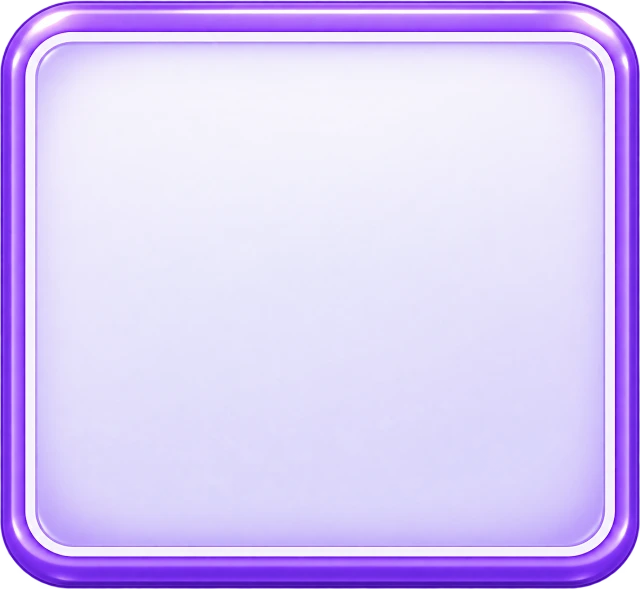
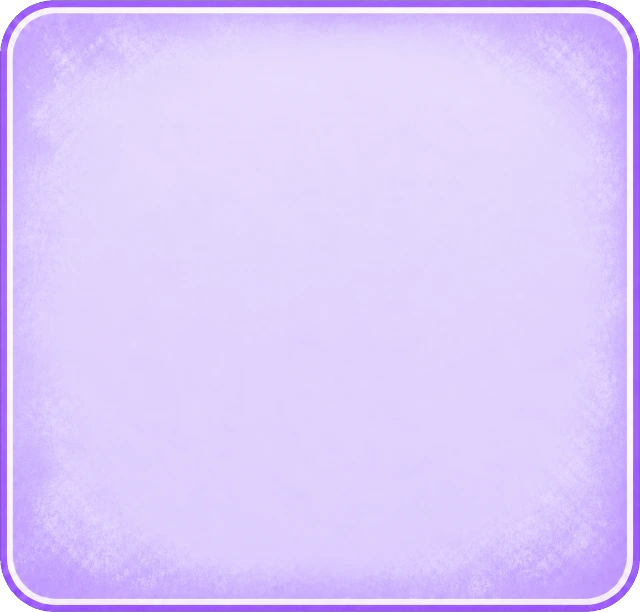
The frosted card kit for options, zones and bins; unused art and the foreign skin removed
Every card the child touches or sorts into is now cut from the supplied
frosted-card kit: the option card is its first cell (snow on the corners,
crystals at the foot), the convex and concave bins are its aqua and lilac
cards, and the regular and irregular zones are reg.png and irre.png. The
card tool can cut one cell of a sheet before keying and measuring. The
soft cards' rims are in their own colour, so the pane detector read the
whole card as glass; their panes are set by hand with room off the rim.

Cleanup, as asked: the superseded source art (CARD, BIGCARD, buttons,
newbuttons, regular, irregular, NEWCARD, NEWCARD1, buttonskit,
numberbutton) is deleted, as is the unwired measuring-ui skin with its
tests, docs and previews, and the two package scripts that pointed at
them. The measuring test now loads the measuring frames it needs.

diff --git a/tools/build-card.js b/tools/build-card.js
@@ -6,11 +6,11 @@
  *
  * Four cards, three jobs:
  *
- *   OPTION  assets/ui/CARD.png     the block of ice something you can TOUCH
+ *   OPTION  assets/ui/cardskit.png (cell 0)  the block of ice something you can TOUCH
  *                                  sits in — the sorting tray, the swipe
  *                                  card, the icons stacked in a bin, the four
  *                                  in the choose-the-polygons grid.
- *   PANEL   assets/ui/BIGCARD.png  the slab a single shape is DISPLAYED on,
+ *   PANEL   assets/ui/bigcardn.png  the slab a single shape is DISPLAYED on,
  *                                  where there is nothing to tap or drag.
  *
  * Which card a thing gets is the affordance. A child should be able to tell
@@ -48,7 +48,14 @@ const ROOT = path.join(__dirname, '..');
 const OUT_JS = path.join(ROOT, 'src/game/card-frame.js');
 
 const CARDS = [
-  { key: 'option',    src: 'assets/ui/CARD.png',      out: 'assets/ui/card.webp',      cap: 512 },
+  // The option card is the first cell of the frosted-card kit: a soft ice
+  // card with snow on its corners. `cell` crops one of a sheet's cells
+  // before the usual keying and measuring.
+  { key: 'option',    src: 'assets/ui/cardskit.png',  cell: { cols: 3, rows: 2, i: 0 }, out: 'assets/ui/card.webp', cap: 512 },
+  // The convex / concave bins on the sorting screen: aqua and lilac from
+  // the same kit, so the two halves of the answer are two cards.
+  { key: 'convexBin',  src: 'assets/ui/cardskit.png', cell: { cols: 3, rows: 2, i: 3 }, out: 'assets/ui/bin-convex.webp',  cap: 640 },
+  { key: 'concaveBin', src: 'assets/ui/cardskit.png', cell: { cols: 3, rows: 2, i: 5 }, out: 'assets/ui/bin-concave.webp', cap: 640 },
   { key: 'panel',     src: 'assets/ui/bigcardn.png', out: 'assets/ui/bigcard.webp',   cap: 1024 },
   // The two drop zones of the swipe practice. Their titles are drawn INTO the
   // artwork, so the game must not print a label over them — and the pane each
@@ -59,9 +66,9 @@ const CARDS = [
   { key: 'plank',     src: 'assets/ui/pannel.png',   out: 'assets/ui/plank.webp',           cap: 1400 },
   // The zone frames are blank glass now — a cyan rim for regular, a violet
   // one for irregular — and stage.js letters the word on them. The earlier
-  // regular.png / irregular.png carried their own title plates.
-  { key: 'regular',   src: 'assets/ui/NEWCARD.png',  out: 'assets/ui/zone-regular.webp',   cap: 640 },
-  { key: 'irregular', src: 'assets/ui/NEWCARD1.png', out: 'assets/ui/zone-irregular.webp', cap: 640 }
+  // the earlier zone art carried its own title plates.
+  { key: 'regular',   src: 'assets/ui/reg.png',  out: 'assets/ui/zone-regular.webp',   cap: 640 },
+  { key: 'irregular', src: 'assets/ui/irre.png', out: 'assets/ui/zone-irregular.webp', cap: 640 }
 ];
 
 function serve() {
@@ -78,15 +85,23 @@ function serve() {
 }
 
 const MEASURE = function (opts) {
-  const url = opts.url, cap = opts.cap;
+  const url = opts.url, cap = opts.cap, cell = opts.cell;
   return new Promise(function (resolve, reject) {
     const img = new Image();
     img.onerror = reject;
     img.onload = function () {
       const c = document.createElement('canvas');
-      c.width = img.width; c.height = img.height;
       const x = c.getContext('2d');
-      x.drawImage(img, 0, 0);
+      if (cell) {
+        // one cell of a sheet, cut on the grid; the rest of the pipeline
+        // sees it as if it were the whole file
+        const cw = Math.floor(img.width / cell.cols), ch = Math.floor(img.height / cell.rows);
+        c.width = cw; c.height = ch;
+        x.drawImage(img, (cell.i % cell.cols) * cw, Math.floor(cell.i / cell.cols) * ch, cw, ch, 0, 0, cw, ch);
+      } else {
+        c.width = img.width; c.height = img.height;
+        x.drawImage(img, 0, 0);
+      }
       const d = x.getImageData(0, 0, c.width, c.height).data;
       const at = function (px, py) {
         const i = (py * c.width + px) * 4;
@@ -94,7 +109,7 @@ const MEASURE = function (opts) {
       };
 
       /* 0. THE BLACK MATTE.
-            BIGCARD.png was exported onto an opaque black background rather
+            The slab was exported onto an opaque black background rather
             than onto transparency — every one of its border pixels is
             rgba(0,0,0,255) — so drawn as-is the display slab arrives inside a
             hard black rectangle. It is keyed out by flooding IN from the four
@@ -207,7 +222,7 @@ const MEASURE = function (opts) {
 
   const frames = {};
   for (const card of CARDS) {
-    const m = await page.evaluate(MEASURE, { url: `http://127.0.0.1:${port}/${card.src}`, cap: card.cap });
+    const m = await page.evaluate(MEASURE, { url: `http://127.0.0.1:${port}/${card.src}`, cap: card.cap, cell: card.cell || null });
     const bytes = Buffer.from(m.webp.split(',')[1], 'base64');
     fs.writeFileSync(path.join(ROOT, card.out), bytes);
     const before = fs.statSync(path.join(ROOT, card.src)).size;

diff --git a/src/game/stage.js b/src/game/stage.js
@@ -1156,13 +1156,24 @@
         var g = mk('g', { 'class': 'bin', 'data-bin': b.id }, layers.ui);
         var c = CONCEPT[b.tone] || CONCEPT.convex;
         var tone = [c.wash, c.face, c.ink];
-        // A LIGHT CARD WITH A TITLE BAND, in the concept's colour — the same
-        // grammar as the stepper bar and the checklist. It was a dashed box
-        // with a dark pill riding its top edge, which is a dashboard widget.
-        mk('rect', { x: x, y: y, width: bw, height: bh, rx: UI.radius, fill: tone[0], stroke: tone[1], 'stroke-width': UI.rim }, g);
-        mk('rect', { x: x + 12, y: y + 10, width: bw - 24, height: 40, rx: 12, fill: tone[1], opacity: .28 }, g);
-        mk('text', { x: x + bw / 2, y: y + 38, 'text-anchor': 'middle', 'font-size': UI.title, 'font-weight': 800, fill: c.ink, text: b.label }, g);
+        // THE BIN IS A CARD FROM THE KIT — aqua for convex, lilac for
+        // concave — with the word lettered on a band of the concept's colour
+        // inside the top of its glass. The drawn card remains as the fallback.
+        var BF = global.CardFrame && CardFrame[b.tone + 'Bin'];
+        var pane = { x: x + 12, y: y + 10, w: bw - 24, h: bh - 20 };
+        if (BF) {
+          var im = mk('image', { x: x, y: y, width: bw, height: bh, preserveAspectRatio: 'none', 'pointer-events': 'none' }, g);
+          im.setAttributeNS('http://www.w3.org/1999/xlink', 'href', BF.src);
+          im.setAttribute('href', BF.src);
+          if (BF.pane) pane = { x: x + bw * BF.pane.x, y: y + bh * BF.pane.y, w: bw * BF.pane.w, h: bh * BF.pane.h };
+        } else {
+          mk('rect', { x: x, y: y, width: bw, height: bh, rx: UI.radius, fill: tone[0], stroke: tone[1], 'stroke-width': UI.rim }, g);
+        }
+        mk('rect', { x: pane.x + 10, y: pane.y + 8, width: pane.w - 20, height: 40, rx: 12, fill: tone[1], opacity: .30 }, g);
+        mk('text', { x: x + bw / 2, y: pane.y + 36, 'text-anchor': 'middle', 'font-size': UI.title, 'font-weight': 800, fill: c.ink, text: b.label }, g);
         g._bin = b; g._rect = { x: x, y: y, w: bw, h: bh }; g._count = 0;
+        // the shelf: the glass below the title band
+        g._pane = { x: pane.x, y: pane.y + 52, w: pane.w, h: pane.h - 56 };
         st.sort.bins.push(g);
         if (spec.enter && !reduced()) enter(g, 'rise');
       });
@@ -1350,8 +1361,8 @@
   function packBin(bin) {
     var items = bin._items || [];
     if (!items.length) return;
-    var r = bin._rect;
-    var PAD_X = 12, PAD_TOP = 56, PAD_BOT = 12;   // the title band eats the top
+    var r = bin._pane || bin._rect;
+    var PAD_X = bin._pane ? 6 : 12, PAD_TOP = bin._pane ? 6 : 56, PAD_BOT = bin._pane ? 6 : 12;   // a pane already excludes the title band
     var cols = Math.min(3, Math.max(1, Math.ceil(Math.sqrt(items.length))));
     var rows = Math.ceil(items.length / cols);
     var cw = (r.w - PAD_X * 2) / cols;
@@ -1632,7 +1643,7 @@
   /**
    * A button.
    *
-   * THE ARTWORK, IN THREE PIECES. assets/ui/buttons.png is a sheet of
+   * THE ARTWORK, IN THREE PIECES. assets/ui/buttonkit1.png is a sheet of
    * finished buttons; tools/build-buttons.js cuts the four this lesson needs
    * out of it and measures where each round end finishes.
    *

diff --git a/src/game/card-frame.js b/src/game/card-frame.js
@@ -7,8 +7,6 @@
  *   panel   the slab a single shape is DISPLAYED on, with nothing to do
  *
  * `pane` is the clear area inside the rim, as a fraction of the card, so a
- * (panel.pane.h is hand-set to 0.85 after every rebuild: the detector stops at
- * the inner highlight, a tenth short of the glass; keep it.)
  * shape can be placed in it at any size the card is drawn at. Measured from
  * the artwork rather than eyeballed, because the rim is not the same
  * thickness on every edge and a shape centred on the card is not centred in
@@ -19,14 +17,21 @@
   var F = {
     "option": {
       "src": "assets/ui/card.webp",
-      "w": 512,
-      "h": 472,
-      "pane": {
-        "x": 0.0697,
-        "y": 0.0929,
-        "w": 0.858,
-        "h": 0.827
-      }
+      "w": 469,
+      "h": 445,
+      "pane": { "x": 0.09, "y": 0.13, "w": 0.82, "h": 0.78 }
+    },
+    "convexBin": {
+      "src": "assets/ui/bin-convex.webp",
+      "w": 470,
+      "h": 442,
+      "pane": { "x": 0.05, "y": 0.06, "w": 0.9, "h": 0.89 }
+    },
+    "concaveBin": {
+      "src": "assets/ui/bin-concave.webp",
+      "w": 468,
+      "h": 442,
+      "pane": { "x": 0.05, "y": 0.06, "w": 0.9, "h": 0.89 }
     },
     "panel": {
       "src": "assets/ui/bigcard.webp",
@@ -53,24 +58,14 @@
     "regular": {
       "src": "assets/ui/zone-regular.webp",
       "w": 640,
-      "h": 599,
-      "pane": {
-        "x": 0.0309,
-        "y": 0.0642,
-        "w": 0.9391,
-        "h": 0.8515
-      }
+      "h": 611,
+      "pane": { "x": 0.06, "y": 0.06, "w": 0.88, "h": 0.88 }
     },
     "irregular": {
       "src": "assets/ui/zone-irregular.webp",
       "w": 640,
-      "h": 589,
-      "pane": {
-        "x": 0.0588,
-        "y": 0.0764,
-        "w": 0.8825,
-        "h": 0.8282
-      }
+      "h": 612,
+      "pane": { "x": 0.06, "y": 0.06, "w": 0.88, "h": 0.88 }
     }
   };
   global.CardFrame = F;

diff --git a/tools/build-measuring.js b/tools/build-measuring.js
@@ -4,6 +4,7 @@
 const fs = require('node:fs');
 const path = require('node:path');
 const { chromium } = require('playwright');
+const { execFileSync } = require('node:child_process');
 const root = path.join(__dirname, '..');
 (async () => {
   const browser = await chromium.launch({ channel: 'chrome', headless: true });
@@ -57,6 +58,10 @@ const root = path.join(__dirname, '..');
       fps: 14, order: [0, 1, 2, 3, 4, 5, 6, 7, 6, 5, 4, 3, 2, 1], bounds: result.bounds };
     fs.writeFileSync(path.join(root, 'assets/swiftee/swiftee-measuring.json'), JSON.stringify(spec, null, 2) + '\n');
     fs.writeFileSync(path.join(root, 'src/character/measuring-frames.js'), '// Generated by tools/build-measuring.js\n(function(g){g.MeasuringFrames=' + JSON.stringify(spec) + ';})(typeof window!=="undefined"?window:globalThis);\n');
+    fs.mkdirSync(path.join(root, 'previews'), { recursive: true });
+    const frame = 'if(lt(mod(n,14),8),mod(n,14),14-mod(n,14))';
+    const filter = "crop=256:256:'mod(" + frame + ",4)*256':'floor(" + frame + "/4)*256',split[a][b];[a]palettegen=reserve_transparent=1[p];[b][p]paletteuse=alpha_threshold=128";
+    execFileSync('ffmpeg', ['-y', '-v', 'error', '-loop', '1', '-framerate', '14', '-t', '1', '-i', path.join(root, spec.image), '-filter_complex', filter, '-loop', '0', path.join(root, 'previews/measuring-loop.gif')], { windowsHide: true, timeout: 20000 });
     console.log('Packed 8 transparent, baseline-aligned frames into assets/swiftee/swiftee-measuring.png');
   } finally { await browser.close(); }
 })().catch(e => { console.error(e); process.exitCode = 1; });

diff --git a/tests/measuring.test.js b/tests/measuring.test.js
@@ -10,7 +10,7 @@ w.requestAnimationFrame = fn => { callbacks.set(++id, fn); return id; };
 w.cancelAnimationFrame = key => callbacks.delete(key);
 w.Swiftee = { el: w.document.querySelector('#bird') };
 w.Juice = { reducedMotion: false };
-for (const file of ['src/core/polygon-math.js', 'src/fx/snowflake.js', 'src/character/swiftee-frames.js', 'src/game/stage.js']) {
+for (const file of ['src/core/polygon-math.js', 'src/fx/snowflake.js', 'src/character/swiftee-frames.js', 'src/character/measuring-frames.js', 'src/game/stage.js']) {
   w.eval(fs.readFileSync(path.join(__dirname, '..', file), 'utf8'));
 }
 w.Stage.mount(w.document.querySelector('#stage'));
@@ -29,7 +29,7 @@ function prepare() {
   tap(0); tap(0); tap(1); tap(2); tap(3); tap(4);
   assert.equal(w.Stage.state.measure.sides.length, 0);
   assert.equal(w.document.querySelectorAll('.swiftee-measuring').length, 1);
-  for (let i = 0; i < 5; i++) { tick(16); tick(2000); }
+  for (let i = 0; i < 5; i++) { tick(16); tick(3000); }
   await complete;
   assert.equal(w.Stage.state.measure.sides.length, 5);
   assert.equal(w.document.querySelectorAll('.swiftee-measuring').length, 0);

diff --git a/index.html b/index.html
@@ -584,10 +584,10 @@
 <script src="src/character/sleigh-frames.js"></script>
 <script src="src/fx/sleigh-intro.js"></script>
 <script src="src/character/swiftee.js"></script>
-<!-- generated from assets/ui/CARD.png by tools/build-card.js -->
+<!-- generated from assets/ui/cardskit.png, bigcardn.png, pannel.png, reg.png and irre.png by tools/build-card.js -->
 <script src="src/game/card-frame.js"></script>
 <script src="src/game/instruction.js"></script>
-<!-- generated from assets/ui/buttons.png by tools/build-buttons.js -->
+<!-- generated from assets/ui/buttonkit1.png and numberbutton1.png by tools/build-buttons.js -->
 <script src="src/game/button-frame.js"></script>
 <script src="src/game/stage.js"></script>
 <script src="src/game/dual-coding.js"></script>

diff --git a/tests/measuring.browser.js b/tests/measuring.browser.js
@@ -24,7 +24,7 @@ const path = require('node:path');
     const errors = [];
     page.on('pageerror', e => errors.push(e.message));
     await page.setContent('<base href="http://127.0.0.1:' + server.address().port + '/"><style>body{margin:0}#stage{width:1280px;height:720px}</style><div id="stage"></div><div class="swiftee"></div>');
-    for (const file of ['src/core/polygon-math.js', 'src/fx/snowflake.js', 'src/character/swiftee-frames.js', 'src/game/stage.js']) {
+    for (const file of ['src/core/polygon-math.js', 'src/fx/snowflake.js', 'src/character/swiftee-frames.js', 'src/character/measuring-frames.js', 'src/game/stage.js']) {
       await page.addScriptTag({ path: path.join(root, file) });
     }
     await page.evaluate(() => {

diff --git a/tools/build-buttons.js b/tools/build-buttons.js
@@ -4,7 +4,7 @@
  *
  *   node tools/build-buttons.js
  *
- * assets/ui/newbuttons.png is twenty finished buttons on a black background.
+ * assets/ui/buttonkit1.png is twenty finished buttons on a black background.
  *
  * WHY SLICE RATHER THAN STRETCH. The buttons in this game are every width
  * from a 64-unit stepper key to a 184-unit answer, and the sheet is one
